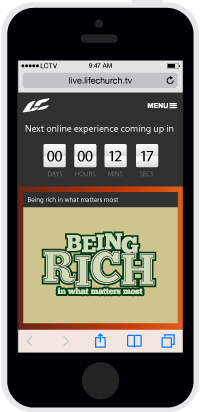
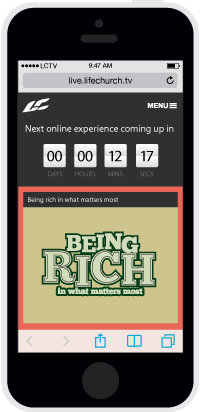
Giving DM images update, locations pin animation update

Changed region(s): [[0.09, 0.4369, 0.93, 0.8447], [0.84, 0.1456, 0.9, 0.1748]]

diff --git a/stylesheets/app.css b/stylesheets/app.css
@@ -6030,7 +6030,7 @@ button.dropdown::before {
   background-repeat: no-repeat;
   background-position: center top;
   width: 44px;
-  height: 44px;
+  height: 33px;
   text-align: center;
   font-size: 9px;
   text-transform: uppercase;

diff --git a/scss/pages/_locations.scss b/scss/pages/_locations.scss
@@ -13,7 +13,7 @@
   background-repeat: no-repeat;
   background-position: center top;
   width: 44px;
-  height: 44px;
+  height: 33px;
   text-align: center;
   font-size: 9px;
   text-transform: uppercase;
